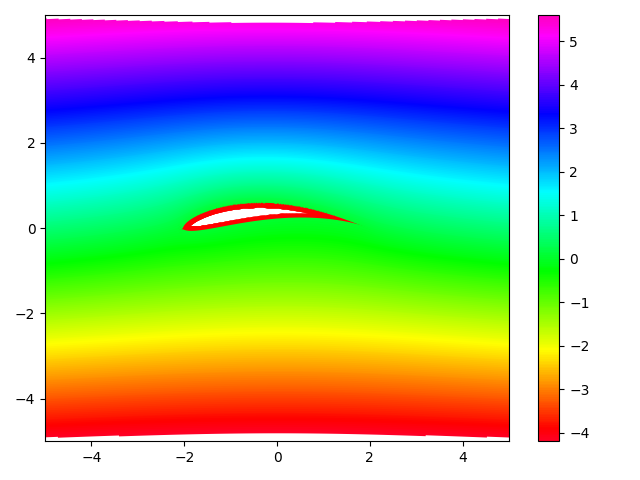
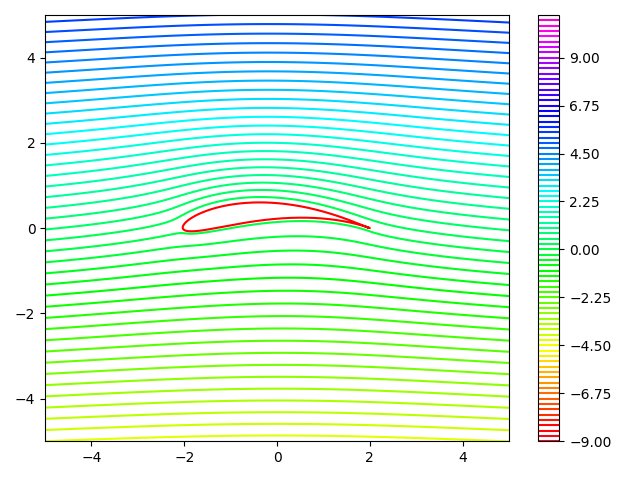
d en e fzo

diff --git a/Project 2/f.py b/Project 2/f.py
@@ -1,7 +1,7 @@
 from matplotlib.backend_bases import LocationEvent
 import numpy as np
 import matplotlib.pyplot as plt
-from numpy.ma import harden_mask
+import scipy.interpolate as interp
 
 circleRadius = 1.12
 circleOrigin = -0.1 + 0.22j
@@ -36,55 +36,30 @@ def PotentialData(potential, Nr=2000, lower=-5, upper=5):
 
 u = 1
 transformation = Joukowski(1)
-wing = transformation(Circle(circleOrigin, circleRadius))
+circle = Circle(circleOrigin, circleRadius)
+wing = transformation(circle)
 
-for gamma in [0, -3]:
+for gamma in [-2.72, 5]:
     potential = MakePotential(gamma, circleRadius, u, circleOrigin)
     Zs, data = PotentialData(potential)
     transformedZ = transformation(Zs)
+    diffxt = np.diff(data, axis=1)/np.diff(transformedZ, axis=1)
     plt.figure()
     plt.plot(wing.real, wing.imag, color="red")
-    plt.contour(transformedZ.real,
-                transformedZ.imag,
-                data.imag,
-                levels=90,
-                cmap='gist_rainbow')
+    plt.contour(transformedZ.real[:,:-1], transformedZ.imag[:,:-1], np.absolute(diffxt), levels=90)
     plt.xlim(-5, 5)
     plt.ylim(-5, 5)
     # plt.axis('equal')
     plt.colorbar()
     plt.tight_layout()
-    plt.savefig(f"C_{gamma}.png")
-    # plt.show()
-
-# zoomed in plots
-for gamma in [0, -3]:
-    potential = MakePotential(gamma, circleRadius, u, circleOrigin)
-    Zs, data = PotentialData(potential, lower=0, upper=2.2)
-    transformedZ = transformation(Zs)
-    data = np.ma.array(
-        data,
-        mask=(np.where(
-            (transformedZ.real <= 2.05) & (transformedZ.real >= 1.95) &
-            (transformedZ.imag <= -0.3) & (transformedZ.imag >= 0.3), True,
-            False)), hard_mask=True)
-    transformedZ = np.ma.array(
-        transformedZ,
-        mask=(np.where(
-            (transformedZ.real <= 2.05) & (transformedZ.real >= 1.95) &
-            (transformedZ.imag <= -0.3) & (transformedZ.imag >= 0.3), True,
-            False)), hard_mask=True)
+    plt.savefig(f"F-wing_{gamma}.png")
+    diffx = np.diff(data, axis=1)/np.diff(Zs, axis=1)
     plt.figure()
-    plt.plot(wing.real, wing.imag, color="red")
-    plt.contour(transformedZ.real,
-                transformedZ.imag,
-                data.real,
-                levels=450,
-                cmap='gist_rainbow')
-    plt.xlim(1.95, 2.05)
-    plt.ylim(-.3, .3)
+    plt.plot(circle.real, circle.imag, color="red")
+    plt.contour(Zs.real[:,:-1], Zs.imag[:,:-1], np.absolute(diffx), levels=90)
+    plt.xlim(-5, 5)
+    plt.ylim(-5, 5)
     # plt.axis('equal')
     plt.colorbar()
     plt.tight_layout()
-    plt.savefig(f"Cinzoom_{gamma}.png")
-    # plt.show()
+    plt.savefig(f"F-cyl_{gamma}.png")

diff --git a/Project 2/e.py b/Project 2/e.py
@@ -38,27 +38,7 @@ u = 1
 transformation = Joukowski(1)
 wing = transformation(Circle(circleOrigin, circleRadius))
 
-for gamma in [0, -3]:
-    potential = MakePotential(gamma, circleRadius, u, circleOrigin)
-    Zs, data = PotentialData(potential)
-    transformedZ = transformation(Zs)
-    plt.figure()
-    plt.plot(wing.real, wing.imag, color="red")
-    plt.contour(transformedZ.real,
-                transformedZ.imag,
-                data.imag,
-                levels=90,
-                cmap='gist_rainbow')
-    plt.xlim(-5, 5)
-    plt.ylim(-5, 5)
-    # plt.axis('equal')
-    plt.colorbar()
-    plt.tight_layout()
-    plt.savefig(f"C_{gamma}.png")
-    # plt.show()
-
-# zoomed in plots
-for gamma in [0, -3]:
+for gamma in [-2.65, -2.68, -2.72, -2.75]:
     potential = MakePotential(gamma, circleRadius, u, circleOrigin)
     Zs, data = PotentialData(potential, lower=0, upper=2.2)
     transformedZ = transformation(Zs)
@@ -67,13 +47,27 @@ for gamma in [0, -3]:
         mask=(np.where(
             (transformedZ.real <= 2.05) & (transformedZ.real >= 1.95) &
             (transformedZ.imag <= -0.3) & (transformedZ.imag >= 0.3), True,
-            False)), hard_mask=True)
+            False)))
     transformedZ = np.ma.array(
         transformedZ,
         mask=(np.where(
             (transformedZ.real <= 2.05) & (transformedZ.real >= 1.95) &
             (transformedZ.imag <= -0.3) & (transformedZ.imag >= 0.3), True,
-            False)), hard_mask=True)
+            False)))
+    plt.figure()
+    plt.plot(wing.real, wing.imag, color="red")
+    plt.contour(transformedZ.real,
+                transformedZ.imag,
+                data.imag,
+                levels=450,
+                cmap='gist_rainbow')
+    plt.xlim(1.95, 2.05)
+    plt.ylim(-.3, .3)
+    # plt.axis('equal')
+    plt.colorbar()
+    plt.tight_layout()
+    plt.savefig(f"Einzoom_{gamma}.png")
+    # plt.show()
     plt.figure()
     plt.plot(wing.real, wing.imag, color="red")
     plt.contour(transformedZ.real,
@@ -86,5 +80,5 @@ for gamma in [0, -3]:
     # plt.axis('equal')
     plt.colorbar()
     plt.tight_layout()
-    plt.savefig(f"Cinzoom_{gamma}.png")
+    plt.savefig(f"Einzoompot_{gamma}.png")
     # plt.show()
